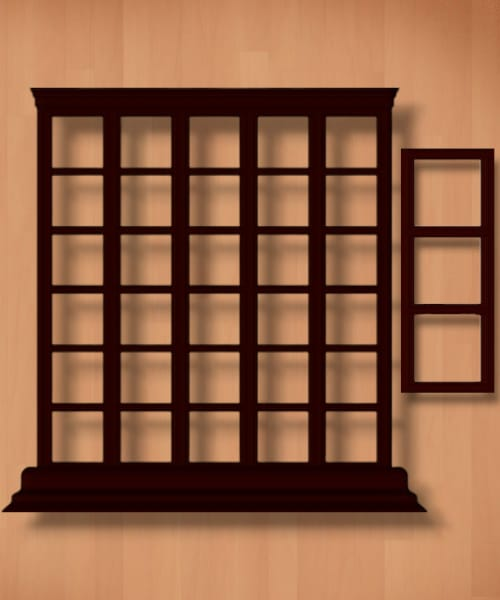
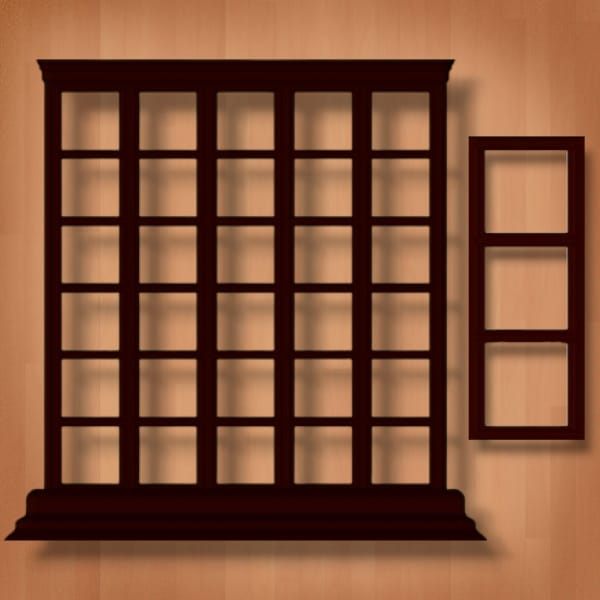
sistemata un po' shelf scene

diff --git a/src/main/java/it/polimi/ingsw/View/Scene/ShelfScene.java b/src/main/java/it/polimi/ingsw/View/Scene/ShelfScene.java
@@ -15,98 +15,115 @@ import javafx.scene.image.ImageView;
 import javafx.scene.input.MouseEvent;
 import javafx.scene.layout.*;
 import javafx.stage.Stage;
-
-import java.util.ArrayList;
-
-
+import javafx.stage.StageStyle;
 
 
 public class ShelfScene extends InputObservable implements GenericScene {
-    private GridPane tableShelf;
-    private StackPane arrows;
-    private GridPane gridPane;
+    private StackPane pickedItemShelf;
+    private GridPane shelfGrid;  //
     private Shelf shelf;
     private Game game;
     private Player player;
     private static Stage stageInstance;
     private AnchorPane immShelf;
+   // private AnchorPane chosenItemShelf;
+
 
     public void start(Stage primaryStage, Shelf shelf) {
         this.stageInstance = primaryStage;
         this.shelf = shelf;
-
-
+        String urlS= "file:src/main/resources/images/ShelfScene.png";
 
 
         immShelf = new AnchorPane();
-        String urlS = "file:src/main/resources/images/shelf.png";
+        AnchorPane.setTopAnchor(immShelf,25.0);
+        AnchorPane.setLeftAnchor(immShelf,25.0);
+
+
+
         immShelf.setStyle("-fx-background-image: url('" + urlS + "'); " +
                 "-fx-background-repeat: no-repeat;" +
-                "-fx-background-size: 500 500;");
-        immShelf.setPrefSize(600, 500);
+                "-fx-background-size: 600 600;");
+        immShelf.setPrefSize(600, 600);
 
-        gridPane = new GridPane();
-        gridPane.setPrefSize(600, 500);
+
+        //grid for shelf's items
+
+        shelfGrid = new GridPane();
         primaryStage.setWidth(600);
-        primaryStage.setHeight(500);
-        gridPane.setHgap(5);
-        gridPane.setVgap(5);
-        gridPane.setPadding(new Insets(10));
+        primaryStage.setHeight(600);
+        shelfGrid.setHgap(5);
+        shelfGrid.setVgap(5);
+        shelfGrid.setPadding(new Insets(10));
 
-        tableShelf = new GridPane();
-        tableShelf.setPrefSize(600, 500);
+
 
         for (int row = -1; row < shelf.getRow(); row++) {
             for (int col = 0; col < shelf.getCol(); col++) {
                 if (row == -1) {
                     Button button = new Button();
-                    button.setPrefSize(20, 20);
+                    button.setPrefSize(50, 50);
                     button.setAccessibleText("" + col);
                     button.addEventHandler(MouseEvent.MOUSE_CLICKED, this::onClickColumn);
                     String url = "file:src/main/resources/images/buttons/arrow_column_button_img.png";
                     button.setStyle("-fx-background-size: 100% 100%;" +
                             "-fx-background-repeat: no-repeat;" +
                             "-fx-background-image: url('" + url + "');");
-                    gridPane.add(button, col, 0);
+                    shelfGrid.add(button, col, 0);
                 } else {
                     ImageView iw = new ImageView(new Image("file:src/main/resources/images/parquet_background.jpg"));
                     iw.setFitWidth(40);
                     iw.setFitHeight(40);
-                    gridPane.add(iw, col, row + 1);
+                    shelfGrid.add(iw, col, row + 1);
                 }
             }
         }
 
-        arrows = new StackPane();
-        arrows.setPrefSize(100, 300);
+        immShelf.getChildren().add(shelfGrid);
+
+
+        pickedItemShelf = new StackPane();
+        pickedItemShelf.setPrefSize(100, 300);
+       /* pickedItemShelf.setStyle("-fx-background-image: url('" + urlI + "'); " +
+                "-fx-background-repeat: stretch; " +
+                "-fx-background-size: cover;");  */
 
         // Aggiunge gli elementi dello StackPane
-        int pos=  3;  //player.getMyItem().size();
+        int pos = 3;  //player.getMyItem().size();
 
         {
-
             for (int i = 0; i < pos; i++) {
 
                 Button button = new Button();
-                arrows.getChildren().add(button);
+                pickedItemShelf.getChildren().add(button);
                 button.setGraphic(createRandomImageView(i));
             }
+
         }
 
+        immShelf.getChildren().add(pickedItemShelf);
 
 
-        AnchorPane.setTopAnchor(gridPane, 25.0);
-        AnchorPane.setLeftAnchor(gridPane, 25.0);
-        AnchorPane.setBottomAnchor(arrows, 25.0);
-        AnchorPane.setRightAnchor(arrows, 25.0);
+        AnchorPane.setTopAnchor(shelfGrid, 25.0);
+        AnchorPane.setLeftAnchor(shelfGrid, 25.0);
+        AnchorPane.setBottomAnchor(pickedItemShelf, 25.0);
+        AnchorPane.setRightAnchor(pickedItemShelf, 25.0);
 
         Scene scene = new Scene(immShelf);
+
         primaryStage.setScene(scene);
         primaryStage.setTitle("shelf");
         primaryStage.setX(600);
         primaryStage.setY(0);
+
+
+       // AnchorPane.setTopAnchor(immShelf, (primaryStage.getHeight() - immShelf.getPrefHeight()) / 2);
+        //AnchorPane.setLeftAnchor(immShelf, (primaryStage.getWidth() - immShelf.getPrefWidth()) / 2);
+
+        primaryStage.show();
         primaryStage.show();
     }
+
 
     private void onClickColumn(MouseEvent event) {
         int col = Integer.parseInt(((Button) event.getSource()).getAccessibleText().split("-")[0]);
@@ -158,10 +175,13 @@ public class ShelfScene extends InputObservable implements GenericScene {
         return imageView;
     }
 
+
     @FXML
     public void initialize() {
+        System.out.println("Size children: "+shelfGrid.getChildren().size());
     }
-}
+    }
+
 
 
 
